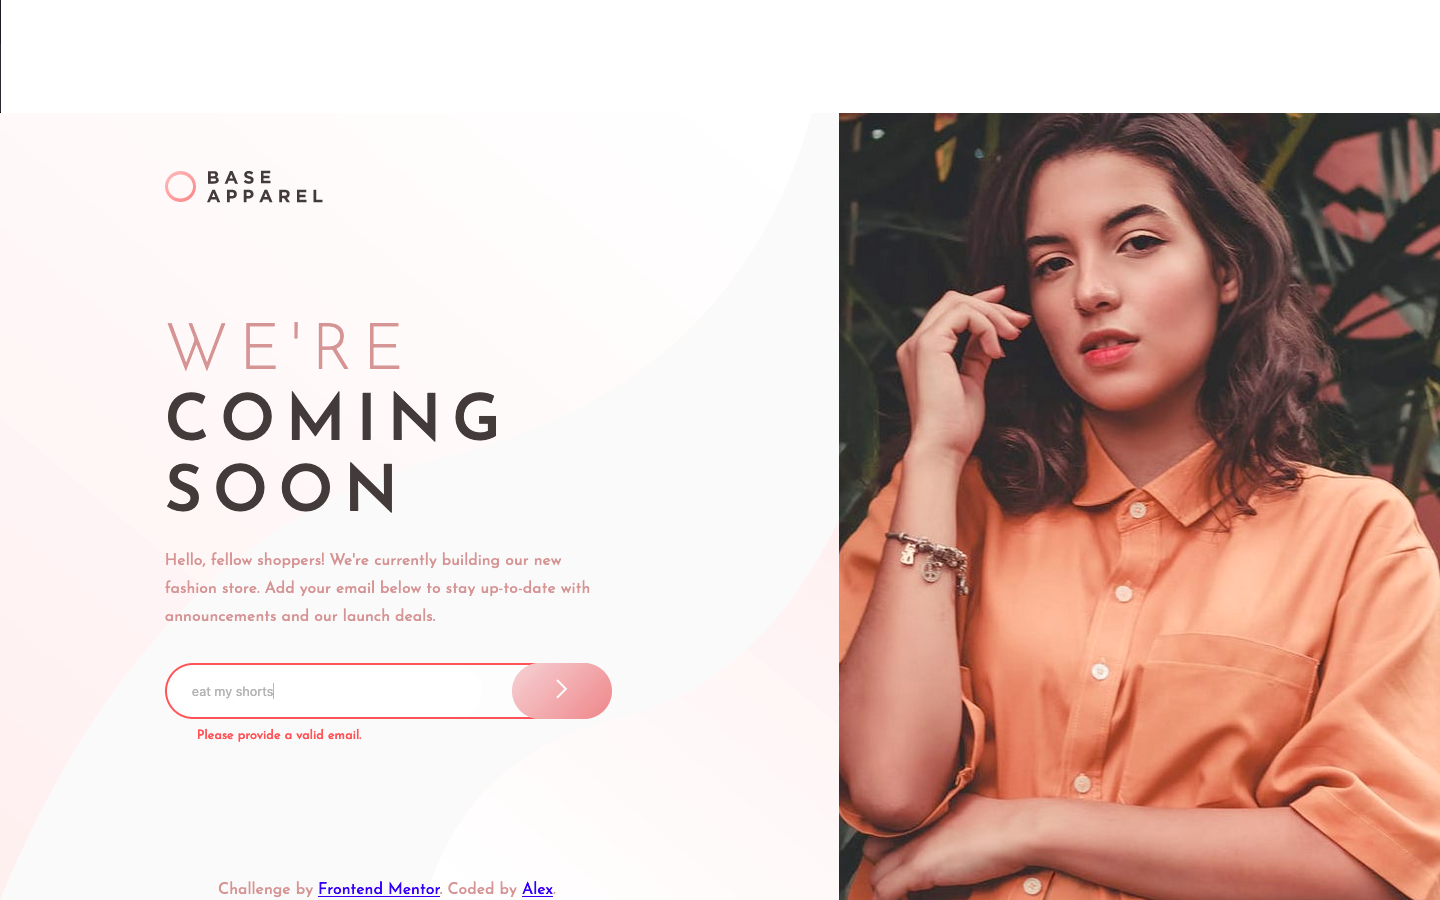
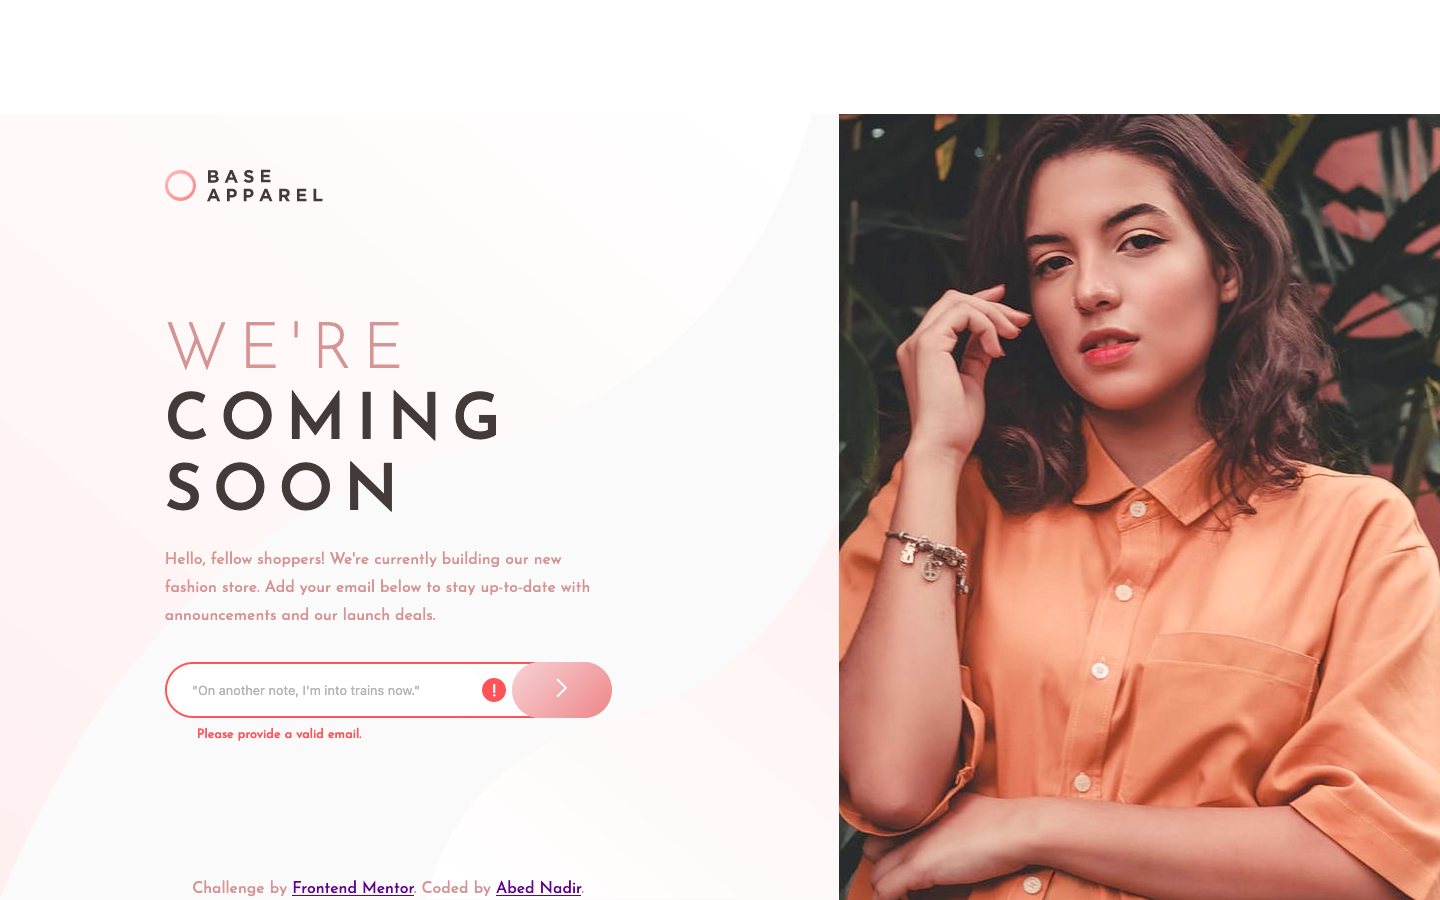
Minor update

diff --git a/script.js b/script.js
@@ -6,7 +6,7 @@ const validityText = document.querySelector(".validity-text");
 
 const reg = /^(([^<>()\[\]\\.,;:\s@"]+(\.[^<>()\[\]\\.,;:\s@"]+)*)|(".+"))@((\[[0-9]{1,3}\.[0-9]{1,3}\.[0-9]{1,3}\.[0-9]{1,3}\])|(([a-zA-Z\-0-9]+\.)+[a-zA-Z]{2,}))$/;
 
-function init (){
+function inIt (){
   submit.addEventListener('click', function() {
     if(!reg.test(input.value.toLowerCase())){
 
@@ -42,8 +42,16 @@ function init (){
 }
 init();
 
-/*function multiEventListener(el, ls, fn){
-  ls.split('').forEach(e => el.addEventListener(e, fn, false));
-}
+/*
+document.querySelector('#txtSearch').addEventListener('keypress', function (e) {
+    if (e.key === 'Enter') {
+      // code for enter
+    }
+});
 
-multiEventListener(input, 'keyup change paste cut', );*/
+function multiEventListener(el, ls, fn() {
+  ls.split('').forEach(e => el.addEventListener(e, fn, false));
+});
+
+multiEventListener(input, 'keyup keypress change paste cut', inIt);
+*/

diff --git a/index.html b/index.html
@@ -67,8 +67,8 @@
     
     <footer>
       <p class="attribution">
-        Challenge by <a href="https://www.frontendmentor.io?ref=challenge" target="_blank">Frontend Mentor</a>. 
-        Coded by <a href="#">Abed Nadir</a>.
+        Challenge by <a href="https://www.frontendmentor.io?ref=challenge" class = "link" target="_blank">Frontend Mentor</a>. 
+        Coded by <a href="#" class = "link">Abed Nadir</a>.
       </p>
     </footer>
   </body>

diff --git a/css/main.css b/css/main.css
@@ -103,3 +103,13 @@ footer {
     color: rgb(206, 152, 152);
     text-align: center;
 }
+
+a.link:link{
+    color: rgb(206, 152, 152);
+    text-decoration: none;
+}
+
+a.link:visited{
+    color: #967bb6;
+    text-decoration: none;
+}

diff --git a/css/desktop.css b/css/desktop.css
@@ -99,9 +99,10 @@
          }
 
      footer{
-         width: 400px;
-         left: 13.06%;
-         bottom: 0;
+        font-size: .8em;
+        width: 400px;
+        left: 13.06%;
+        bottom: 0;
      }
  
  } 

diff --git a/README-template.md b/README-template.md
@@ -49,10 +49,10 @@
      - Now I just need to apply Javascript.
 
   #### 03/23/2022
-  Applying a gradient transition was a bit tricky since CSS doesn't have a mehtodology to directly deal with that. As a result, and after some digging on the web, applying a transition to a gradient could only be achieved by transition an element's (and it's subsequent pseudo-element) opacity to what it was (::)before. The next step is to create an error message within the body (in contrast to the common alert function) using AJAX and Regex. Sure, it's much easier utilizing JQuery for something such as this, but I need to understand how to apply this knowing my code with confidence.
+  Applying a gradient transition was a bit tricky since CSS doesn't have a mehtodology to directly deal with that. As a result, and after some digging on the web, applying a transition to a gradient could only be achieved by transitioning an element's (and it's subsequent pseudo-element) opacity to what it was `::before`. The next step is to create an error message within the body (in contrast to the common alert function) using AJAX and Regex. Sure, it's much easier utilizing JQuery for something such as this, but I need to understand how to apply this knowing my code with confidence.
   - changed `background-color` to `background-image` in order to utilize gradient transition.
     - the button color would have changed abrutly without smooth animation if I were to use `background-color` instead.
-  - Created a `::before` pseudo-element for my `.btn` class in order to have both elements.
+  - Created a `::before` pseudo-element for my `.btn` class in order to have both elements change color smoothly.
   - changed CSS color values to RGB and RGBA due to HSL not supporting the specific color I needed for the button.
   - Applying AJAX to both detect and inform the client if they made an error (invalid email) directly below the input field using a transitionary fade-in animation. The input's border should also transition with an equal speed and smoothness as the message and button. This border, message, and button, will disspear once it the client's email is validated, meaning that it'll make use of recognizing a wide variety of Regular Expressions. 
 
@@ -101,6 +101,11 @@ Of course, this code was partially edited to work for my page. The now resolved 
 
 #### 05/12/2022; 1415
 I need to create a two functions – one for creating a smooth display transition for the icon-error, the other for a resize transition for border size and button's margin alteration. This project has taken a lot longer than I would have wanted it to go, but I guess it's a part of the learning process. I'm starting to appreciate the use of libraries and frameworks.
+
+#### 05/12/2022; 1833
+I'll go ahead and claim this project as completed, but only in terms of accomplishing all of the required tasks. I still intend to update this little page, but on my own terms. It was a tedious as it was educational and enjoyable, and I hope to have the next major update completed by next Thursday.
+
+
 ## Overview
 
 ### Project objectives
@@ -127,9 +132,12 @@ Users should be able to:
   - The email address is not formatted correctly
 - Recieve a success message when the email is entered correctly.
   - Both messages should have a smooth transition. This includes a color change in the
-  `form` (which is now a `<div>` tag) border, and  
+  `form` (which is now a `<div>` tag) border, and the display for the error-icon svg (CSS's tranisition property doesn't work for display, so I'll be using Javascript in conjuction with a hiiden CSS class).
 
 ### Screenshot
+
+![invalid email entered:](images/ver1.png)
+![Valid email entered:](images/ver2.png)
 
 ### Links
 
@@ -150,6 +158,7 @@ Users should be able to:
 - [Styled Components](https://styled-components.com/) - For styles
 
 ### What I learned
+The uber-tedious process of applying transition animations to buttons.
 
 ### Continued development
 
